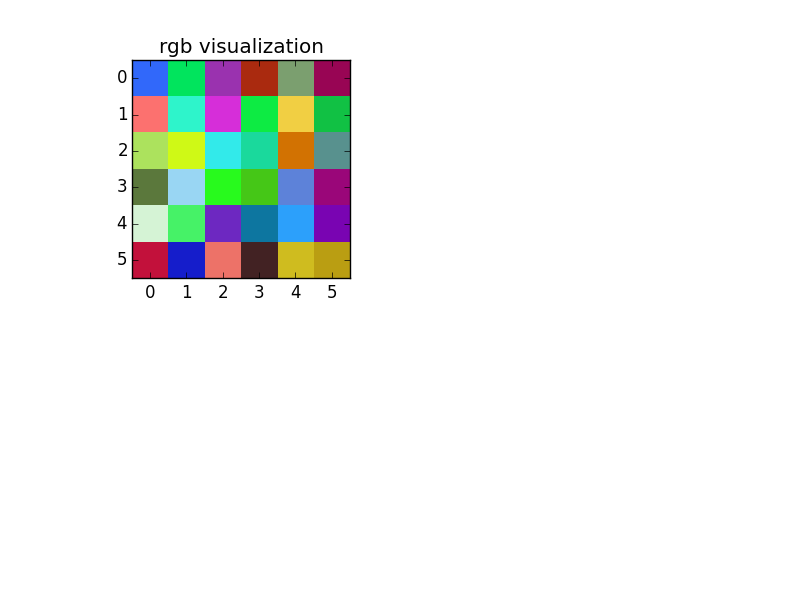
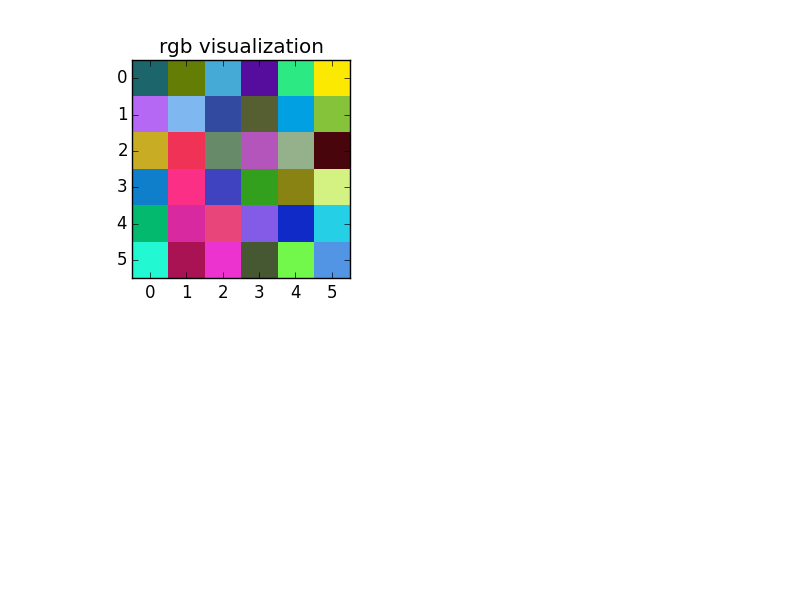
organized stuff

Changed region(s): [[0.1562, 0.09, 0.4375, 0.48]]

diff --git a/som/python_som.py b/som/python_som.py
@@ -6,15 +6,9 @@ from sklearn.decomposition import PCA
 from util import visualize_rgb
 
 def fast_norm(x):
-    """Returns norm-2 of a 1-D numpy array.
-    * faster than linalg.norm in case of 1-D arrays (numpy 1.9.2rc1).
-    """
     return np.sqrt(np.dot(x, x.T))
 
 class SOM:
-	'''
-	sigma(t) = sigma / (1 + 2 * t/T), controls the update gaussian
-	'''
 	def __init__(self, w, h, sigma=0.2, lr=0.1):
 		self.w = w
 		self.h = h
@@ -24,11 +18,6 @@ class SOM:
 		self.lr = lr
 		self._decay_func = lambda x, t, max_iter: x/(1+float(t)/max_iter)
 		
-	'''
-	methods:
-	- random - random sample
-	- PCA - pca grid
-	'''
 	def initialize(self, data):
 		self.codebook = np.array([[np.zeros((3)) for i in range(self.w)] for j in range(self.h)])
 		for j in range(self.h):
@@ -38,7 +27,6 @@ class SOM:
 	def train(self, data, iterations):
 		random.shuffle(data)
 		for t in range(iterations):
-			diffbook = np.array([[np.zeros((3)) for i in range(self.w)] for j in range(self.h)])
 			sigma = self._decay_func(self.sigma, t, iterations)
 			lr = self._decay_func(self.lr, t, iterations)
 			print t, sigma, lr
@@ -48,30 +36,23 @@ class SOM:
 				it = np.nditer(g, flags=['multi_index'])
 				while not it.finished:
 					self.codebook[it.multi_index] += g[it.multi_index]*(elem - self.codebook[it.multi_index])
-					self.codebook[it.multi_index] = self.codebook[it.multi_index] / fast_norm(self.codebook[it.multi_index])
+					# self.codebook[it.multi_index] = self.codebook[it.multi_index] / fast_norm(self.codebook[it.multi_index])
 					it.iternext()
 
 			visualize_rgb(self.w, self.h, self.codebook, "iter_" + str(t))
 
-	""" Computes the coordinates of the winning neuron for the sample x """
-	def winner(self, x):
-		min_dist = 999999
-		min_coord = (0, 0)
-		for j in range(self.h):
-			for i in range(self.w):
-				dist = np.linalg.norm(x-self.codebook[j][i])
-				if dist <= min_dist:
-					min_dist = dist
-					min_coord = (j, i)
-		return min_coord
+	def _activate(self, x):
+		self.activation_map = np.zeros((self.h,self.w))
+		s = np.subtract(x, self.codebook)
+		it = np.nditer(self.activation_map, flags=['multi_index'])
+		while not it.finished:
+			self.activation_map[it.multi_index] = fast_norm(s[it.multi_index])  
+			it.iternext()
 
-	'''
-	gaussian((2,2), 1)
-	[[ 0.27992333  0.45123152  0.52907781  0.45123152]
-	 [ 0.45123152  0.72737735  0.8528642   0.72737735]
-	[ 0.52907781  0.8528642   1.          0.8528642 ]
-	[ 0.45123152  0.72737735  0.8528642   0.72737735]]
-	'''
+	def winner(self, x):
+		self._activate(x)
+		return np.unravel_index(self.activation_map.argmin(), self.activation_map.shape)
+
 	def gaussian(self, c, sigma):
 		d = 2*np.pi*sigma*sigma
 		ax = np.exp(-np.power(self.neigx-c[0], 2)/d)
@@ -80,9 +61,12 @@ class SOM:
 
 
 rgb = np.load("../data/generated_rgb.np")
+rgb /= 255.0
 
-s = SOM(6, 6, sigma=0.3, lr=0.5)
+s = SOM(6, 6, sigma=0.9, lr=0.5)
+
 s.initialize(rgb)
+
 visualize_rgb(s.w, s.h, s.codebook, "init")
-s.train(rgb, 10)
+s.train(rgb, 5)
 visualize_rgb(s.w, s.h, s.codebook, "result")

diff --git a/som/spark_som.py b/som/spark_som.py
@@ -1,6 +1,5 @@
 """
-spark-submit --conf spark.driver.maxResultSize=1g --conf spark.yarn.executor.memoryOverhead=800 --num-executors 6 --executor-cores 1 --driver-memory 500m  --executor-memory 500m simple.py 
-
+spark-submit --conf spark.driver.maxResultSize=1g --conf spark.yarn.executor.memoryOverhead=800 --num-executors 6 --executor-cores 1 --driver-memory 500m  --executor-memory 500m spark_som.py 
 """
 import sys
 sys.path.insert(0, "../")
@@ -35,13 +34,20 @@ class SOM:
 		self.neigy = np.arange(self.h)
 		self.sigma = sigma
 		self.lr = lr
-		self._decay_func = lambda x, t, max_iter: x - (x - 0.000001) * float(t) / max_iter
+		# self._decay_func = lambda x, t, max_iter: x - (x - 0.000001) * float(t) / max_iter
+		self._decay_func = lambda x, t, max_iter: x/(1+float(t)/max_iter)
 		
 	def initialize(self, data):
 		self.codebook = np.array([[np.zeros((3)) for i in range(self.w)] for j in range(self.h)])
 		for j in range(self.h):
 			for i in range(self.w):
 				self.codebook[j][i] = random.choice(data)
+
+	def quantization_error(self, data):
+		error = 0
+		for x in data:
+			error += fast_norm(x-self.codebook[winner(x, self.codebook, self.w, self.h)])
+		return error/len(data)
 
 	def train(self, data, iterations, partitions=12):
 		from pyspark import SparkContext
@@ -50,9 +56,9 @@ class SOM:
 		for t in range(iterations):
 			sigma = self._decay_func(self.sigma, t, iterations)
 			lr = self._decay_func(self.lr, t, iterations)
-			print t, sigma, lr
 			codebookBC = sc.broadcast(self.codebook)
 			randomizedRDD = dataRDD.repartition(partitions)
+			print "iter: %d, sigma: %.2f, lr: %.2f, error: %.4f" % (t, sigma, lr, self.quantization_error(randomizedRDD.collect()))
 			def train_partition(partition_data):
 				localCodebook = codebookBC.value
 				for elem in partition_data:
@@ -61,7 +67,6 @@ class SOM:
 					it = np.nditer(g, flags=['multi_index'])
 					while not it.finished:
 						localCodebook[it.multi_index] += g[it.multi_index]*(elem - localCodebook[it.multi_index])
-						localCodebook[it.multi_index] = localCodebook[it.multi_index] / fast_norm(localCodebook[it.multi_index])
 						it.iternext()
 				return [localCodebook]
 			resultCodebookRDD = randomizedRDD.mapPartitions(train_partition)
@@ -73,7 +78,7 @@ class SOM:
 rgb = np.load("../data/generated_rgb.np")
 rgb /= 255.0
 
-s = SOM(6, 6, sigma=0.3, lr=0.5)
+s = SOM(6, 6, sigma=0.5, lr=0.3)
 
 s.initialize(rgb)
 

diff --git a/generate_data.py b/generate_data.py
@@ -15,3 +15,4 @@ data = np.array(data).astype(np.float32)
 
 f = open('data/generated_rgb.np', 'wb')
 np.save(f, data)
+np.savetxt("data/generated_rgb.csv", data, delimiter=",")
